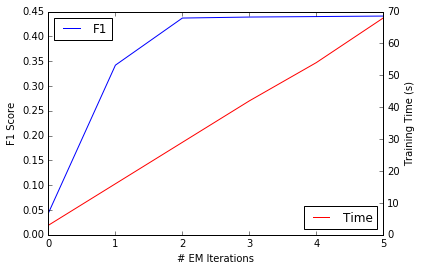
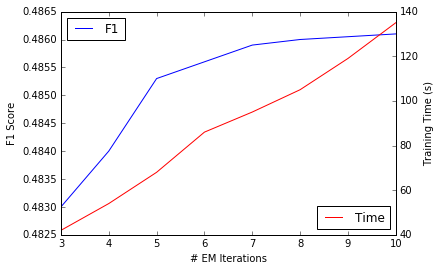
Better results

diff --git a/TP3-IBM1/README.md b/TP3-IBM1/README.md
@@ -42,6 +42,11 @@ Performances with diffrent number of EM Iterations:
 
 |Language|# Training|# EM Iterations|Precision|Recall|F1 Score| Time|
 |--------|---------:|--------------:|--------:|-----:|-------:|----:|
+|English → Spanish|10000|         10|    0.541| 0.442|   0.486| 135s|
+|English → Spanish|10000|          9|    0.541| 0.442|   0.486| 119s|
+|English → Spanish|10000|          8|    0.541| 0.442|   0.486| 105s|
+|English → Spanish|10000|          7|    0.540| 0.441|   0.485|  95s|
+|English → Spanish|10000|          6|    0.540| 0.441|   0.485|  86s|
 |English → Spanish|10000|          5|    0.540| 0.441|   0.485|  68s|
 |English → Spanish|10000|          4|    0.538| 0.440|   0.484|  54s|
 |English → Spanish|10000|          3|    0.537| 0.439|   0.483|  42s|
@@ -61,7 +66,9 @@ number of EM iterations and both on the size of the training data-set.
 
 Instead the quality of the results (F1 Score) has a logaritmic trend vs
 the size of the training data-set. However The trend of the F1 score agains
-the number of EM  iterations is more complex and has a phase transition.
+the number of EM  iterations is more complex and has a  phase transition at 
+around 5 iterations. That's mean that after 5 iteration the algorithm converge
+and there are no big improvments after that.
 
 [em_plot]: plots/plot_em_it.png
 [ts_plot]: plots/plot_training.png
